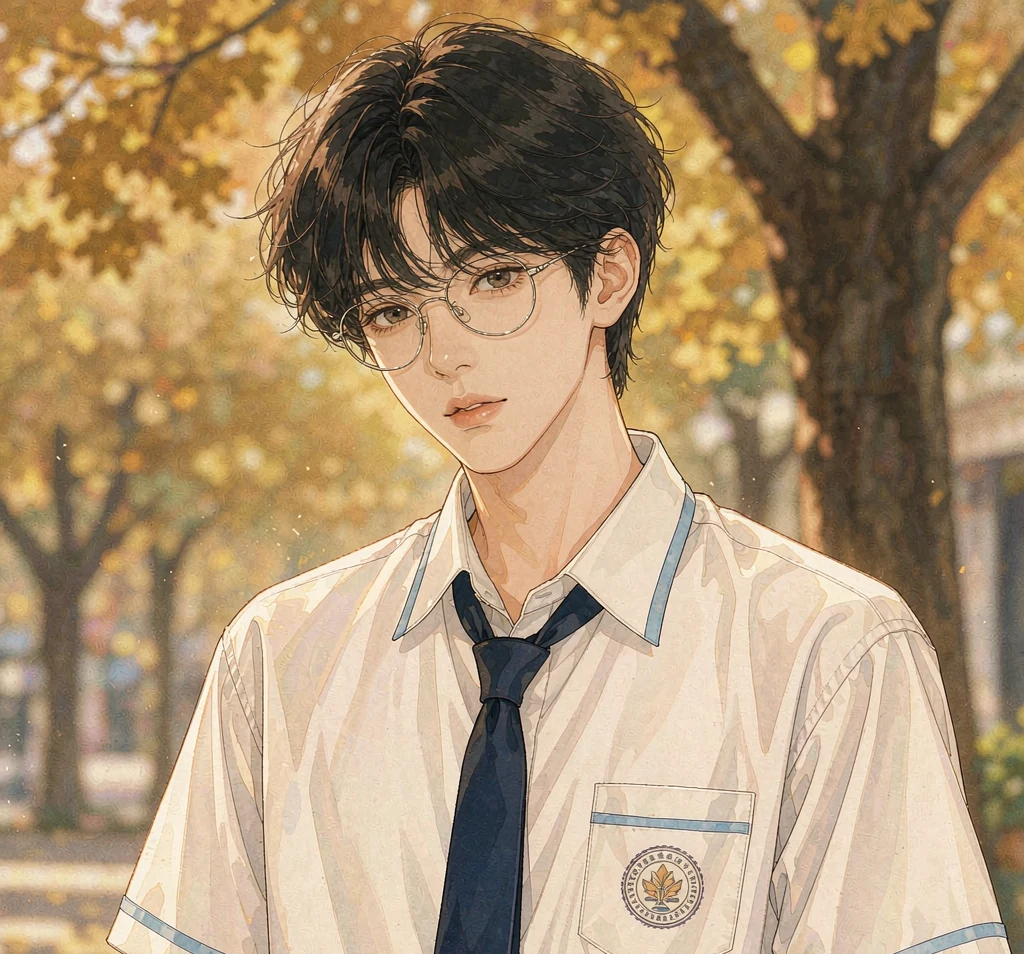
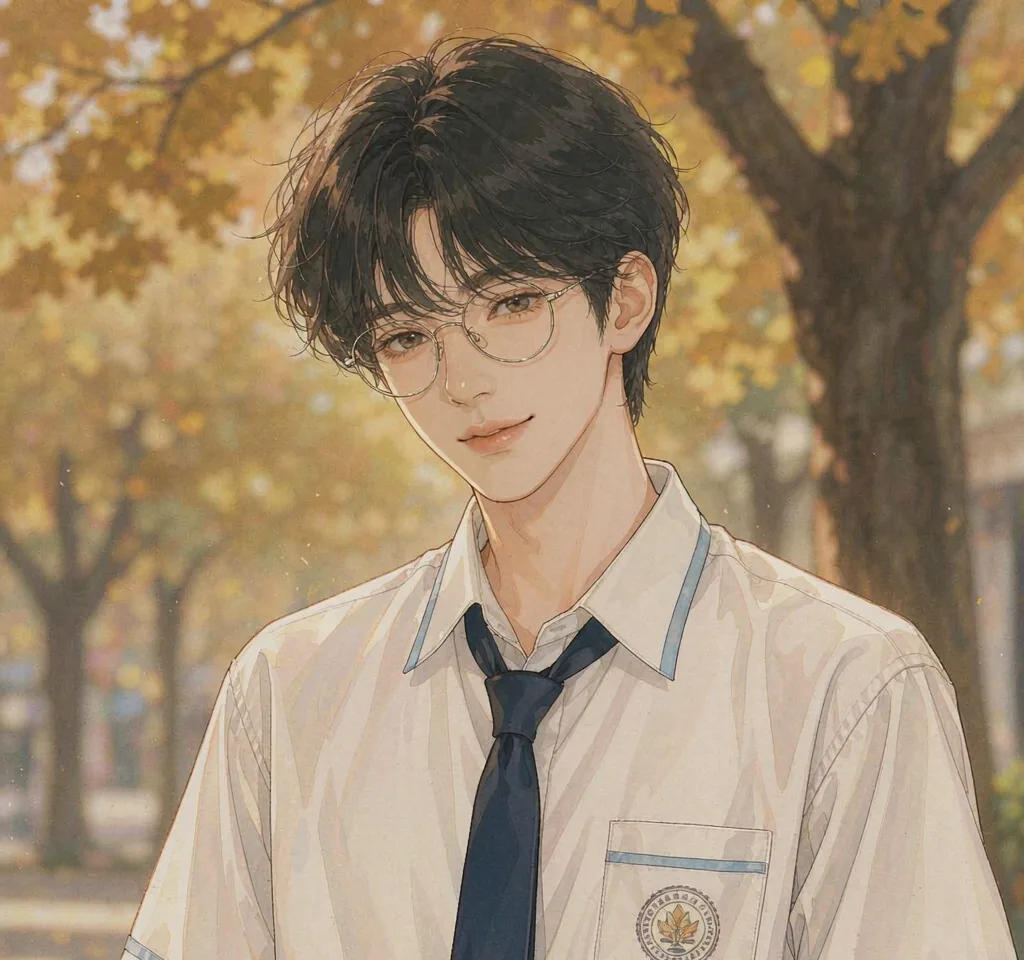
叶南衡立绘换新版：半身构图，温柔的笑里藏疲惫（CACHE v46）
作者确认只推这一张（林纾、江不秋的新版未采纳，保持原版）。

新版要点：
- 严格半身构图（齐腰、无道具、双臂下垂）——上一版加了「手插裤袋」
  「抱书端咖啡杯」等道具，把镜头拉成七分身/全身，与系列胸像尺度断裂，
  被作者否决；这版按「半身 + 表情体现人设」重做
- 表情：笑容仍是全校都认识的那个阳光少年，眼底藏一丝疲惫
  （简介里「把暖意给了别人、情绪吞进自己肚子」的内耗），不堆符号

校服制式（白衬衫+深蓝领带+浅蓝滚边+左胸口袋）、圆形金色校徽、
水彩暖秋画风均由原版图生图继承。纯裁切去水印，CACHE v45 → v46。

diff --git a/sw.js b/sw.js
@@ -19,7 +19,7 @@
  *      NETWORK_TIMEOUT（500ms），所以它们必须走缓存优先。
  *   3. /app/ 前缀（安装包、version.json）不拦截，直接交给网络
  */
-var CACHE = 'linyuan-v45';
+var CACHE = 'linyuan-v46';
 
 /**
  * 缓存条目的「自愈 TTL」：超过这个年龄的缓存命中，会在后台补一次刷新。
